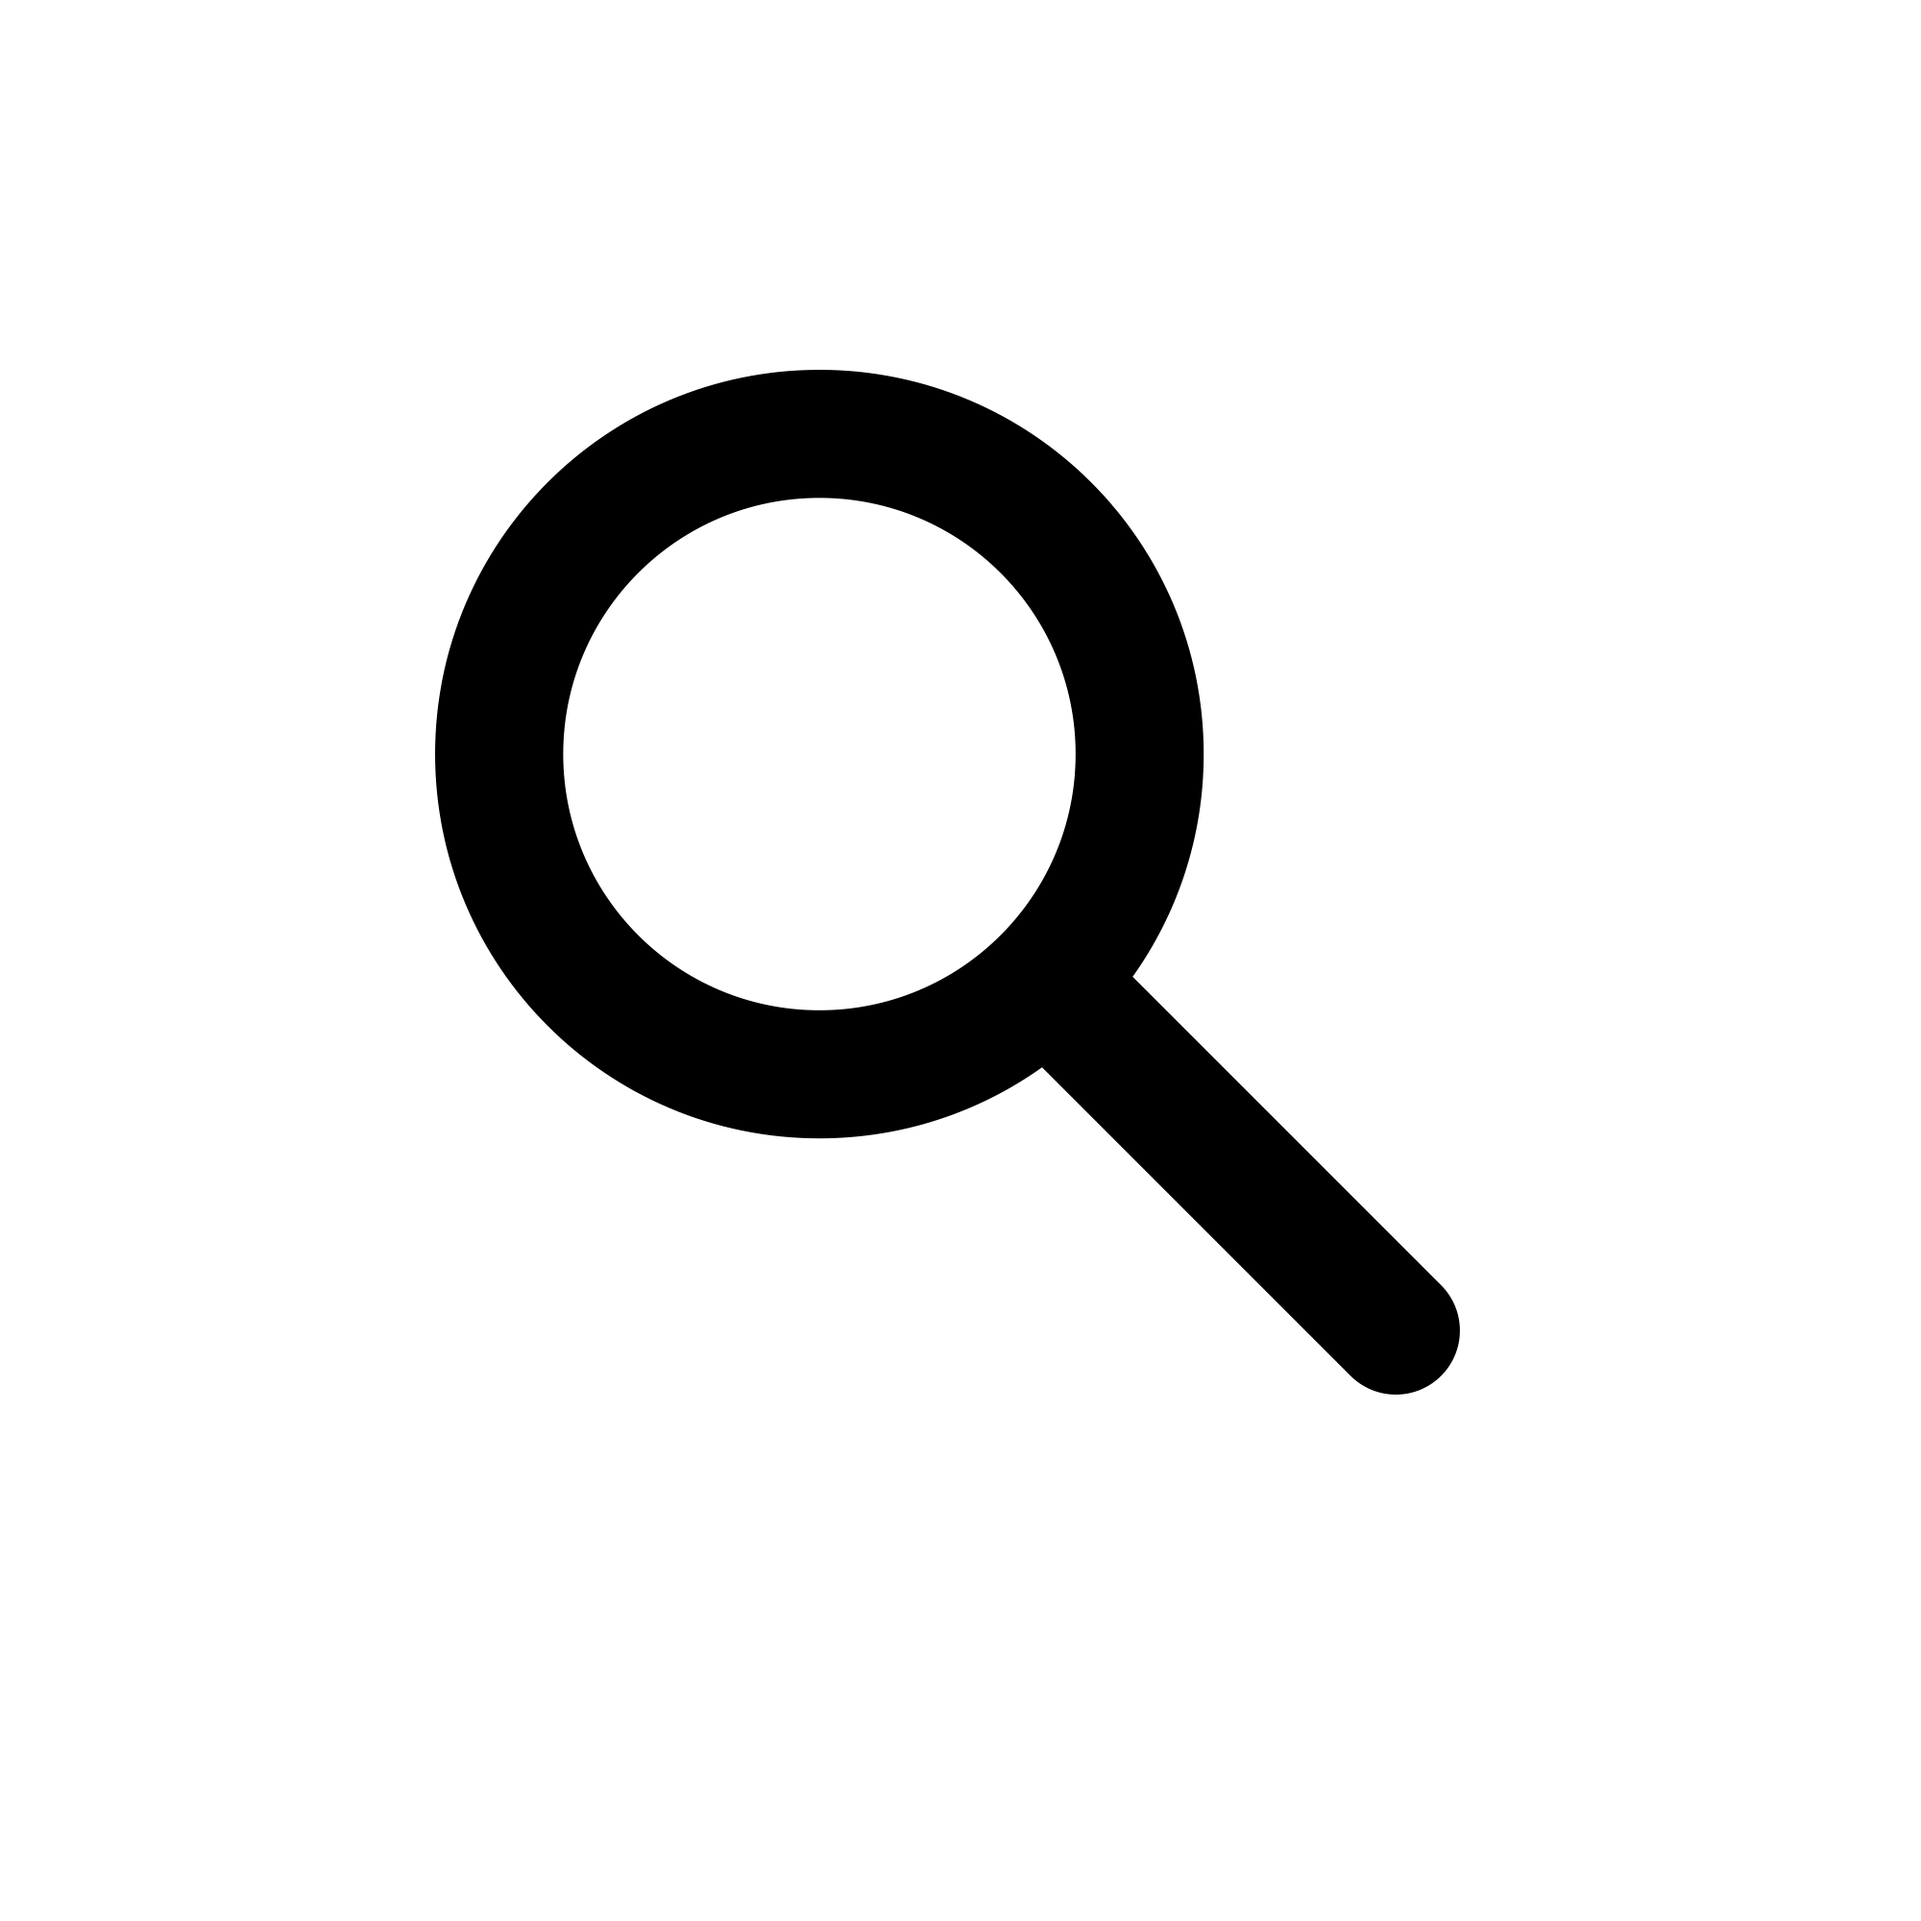
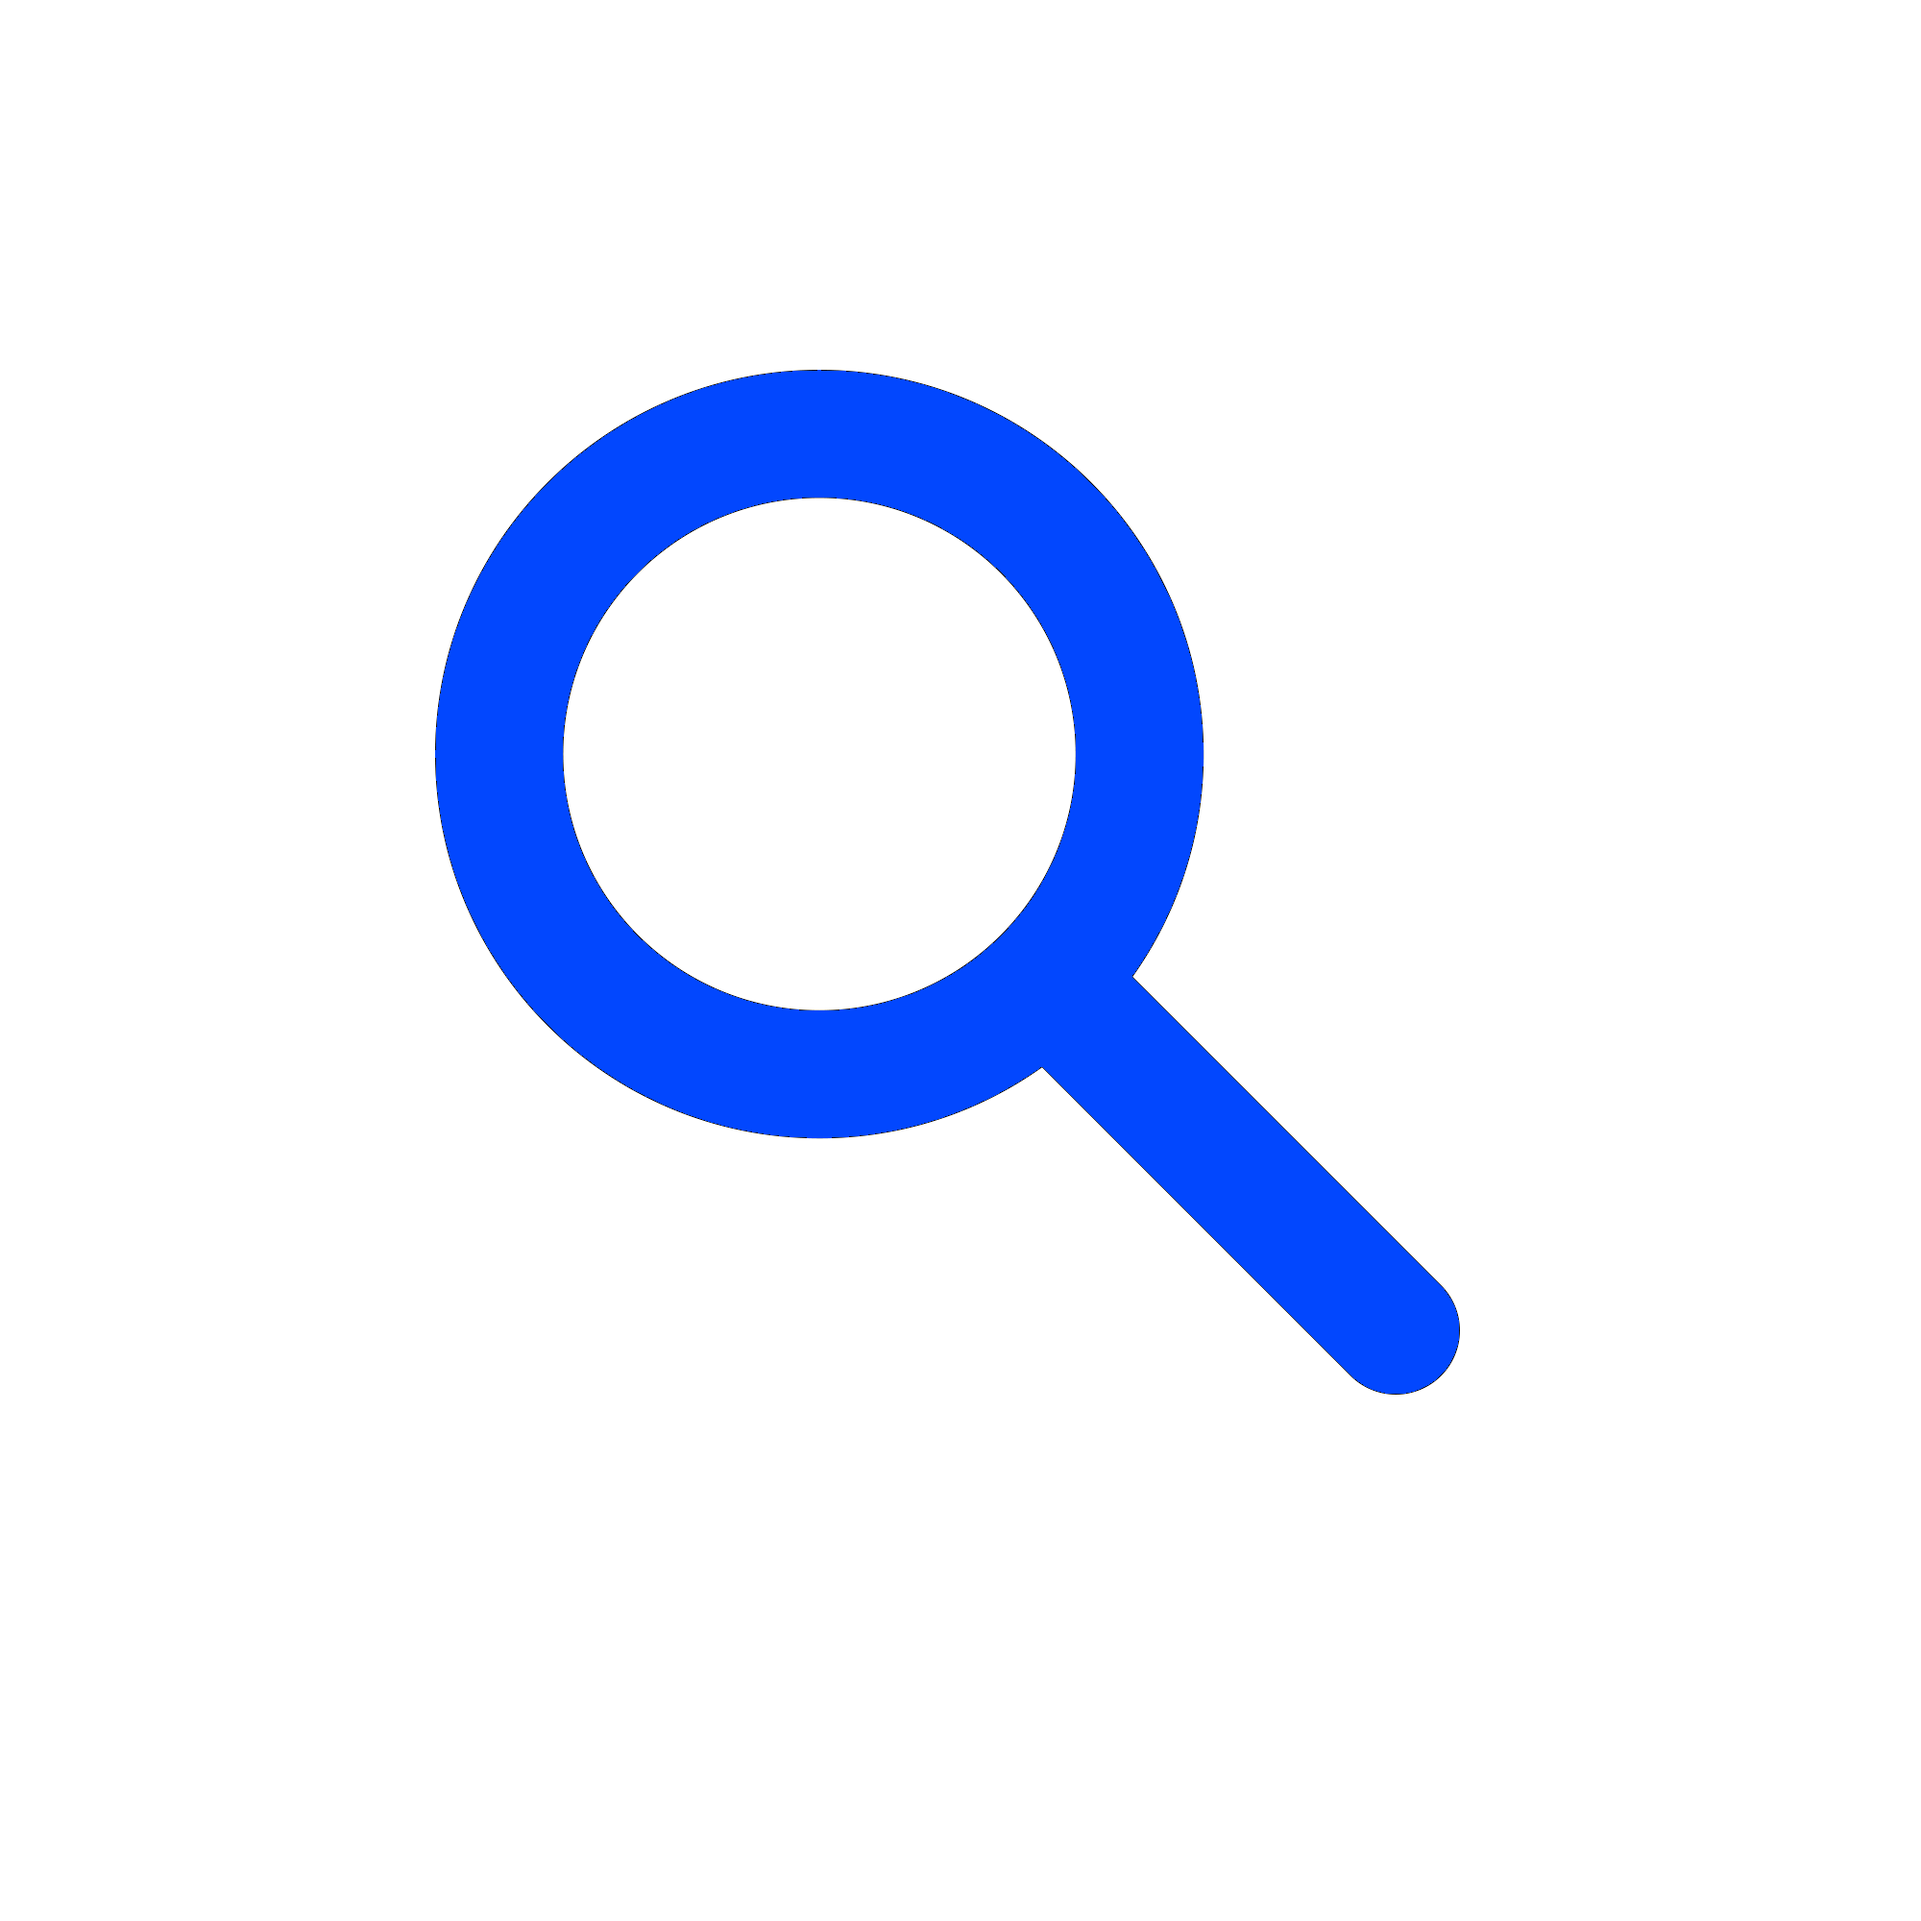
adds ????

Changed region(s): [[0.217, 0.186, 0.775, 0.744]]

diff --git a/store/src/CSS/Header.css b/store/src/CSS/Header.css
@@ -123,4 +123,140 @@
     .topnav input[type=text] {
         border: 1px solid #ccc;  
     }
+}.topnav {
+    overflow: hidden;
+    background-color: #0247FE;
+    display: flex;
+}
+  
+.topnav a {
+    float: left;
+    display: block;
+    color: #091534;
+    text-align: center;
+    padding: 14px 16px;
+    text-decoration: none;
+    font-size: 17px;
+}
+
+.topnav a:hover {
+    background-color: #ddd;
+    color: #091534
+    ;
+    cursor: pointer;
+}
+
+.topnav a.active {
+    background-color: #2196F3;
+    color: white;
+}
+
+.search-container input[type=text] {
+    padding: 6px;
+    margin-top: 8px;
+    font-size: 17px;
+    border: none;
+}
+
+.dropdown {
+    overflow: hidden;
+}
+
+.dropdown .dropbtn {
+    font-size: 16px;  
+    border: none;
+    outline: none;
+    color: white;
+    padding: 14px 16px;
+    font-family: inherit;
+    margin: 0;
+}
+
+.navbar a:hover, .dropdown:hover .dropbtn {
+    background-color: #091534;
+}
+
+.dropdown-content {
+    display: none;
+    position: absolute;
+    background-color: #f9f9f9;
+    min-width: 160px;
+    box-shadow: 0px 8px 16px 0px rgba(0,0,0,0.2);
+    z-index: 1;
+    flex-direction: column;
+}
+
+.dropdown-content input {
+    padding: 6px;
+    font-size: 17px;
+    border: none;
+}
+
+.dropdown-content button {
+    width: 100%;
+    border-radius: 0;
+}
+  
+.dropdown:hover .dropdown-content,
+.dropdown:focus-within .dropdown-content {
+    display: flex;
+}
+
+.topnav .search-container button {
+    float: right;
+    padding: 6px 10px;
+    margin-top: 8px;
+    margin-right: 16px;
+    background: #ddd;
+    font-size: 15px;
+    border: none;
+    cursor: pointer;
+    border-radius: 0;
+}
+
+.topnav .search-container button:hover {
+    background: #ccc;
+}
+
+.search-button {
+    display: inline-block;
+    width: 2em;
+    height: 2em;
+}
+
+.search-icon {
+    width: 300%;
+    margin-left: -10px;
+}
+
+.cart-holder {
+    cursor: pointer;
+}
+
+.cart-holder p {
+    position: fixed;
+    display: inline-block;
+    margin-left: -10px;
+    background-color: red;
+    border-radius: 50%;
+    width: 25px;
+}
+
+.cart-holder img {
+    width: 50px;
+    height: auto;
+}
+
+@media (max-width: 600px) {
+    .topnav a, .topnav input[type=text], .topnav .search-container button {
+        float: none;
+        display: block;
+        text-align: left;
+        width: 100%;
+        margin: 0;
+        padding: 14px;
+    }
+    .topnav input[type=text] {
+        border: 1px solid #ccc;  
+    }
 }

diff --git a/store/src/Pages/Header.jsx b/store/src/Pages/Header.jsx
@@ -14,7 +14,7 @@ function Header() {
                         placeholder='Search'
                         name='search' 
                     />
-                    <button><i>&#x1F50D;</i></button>
+                    <button className='search-button'><i><img className='search-icon' src='searchIcon.png' /></i></button>
                 </form>
             </div>
             <div className='cart-holder'>
